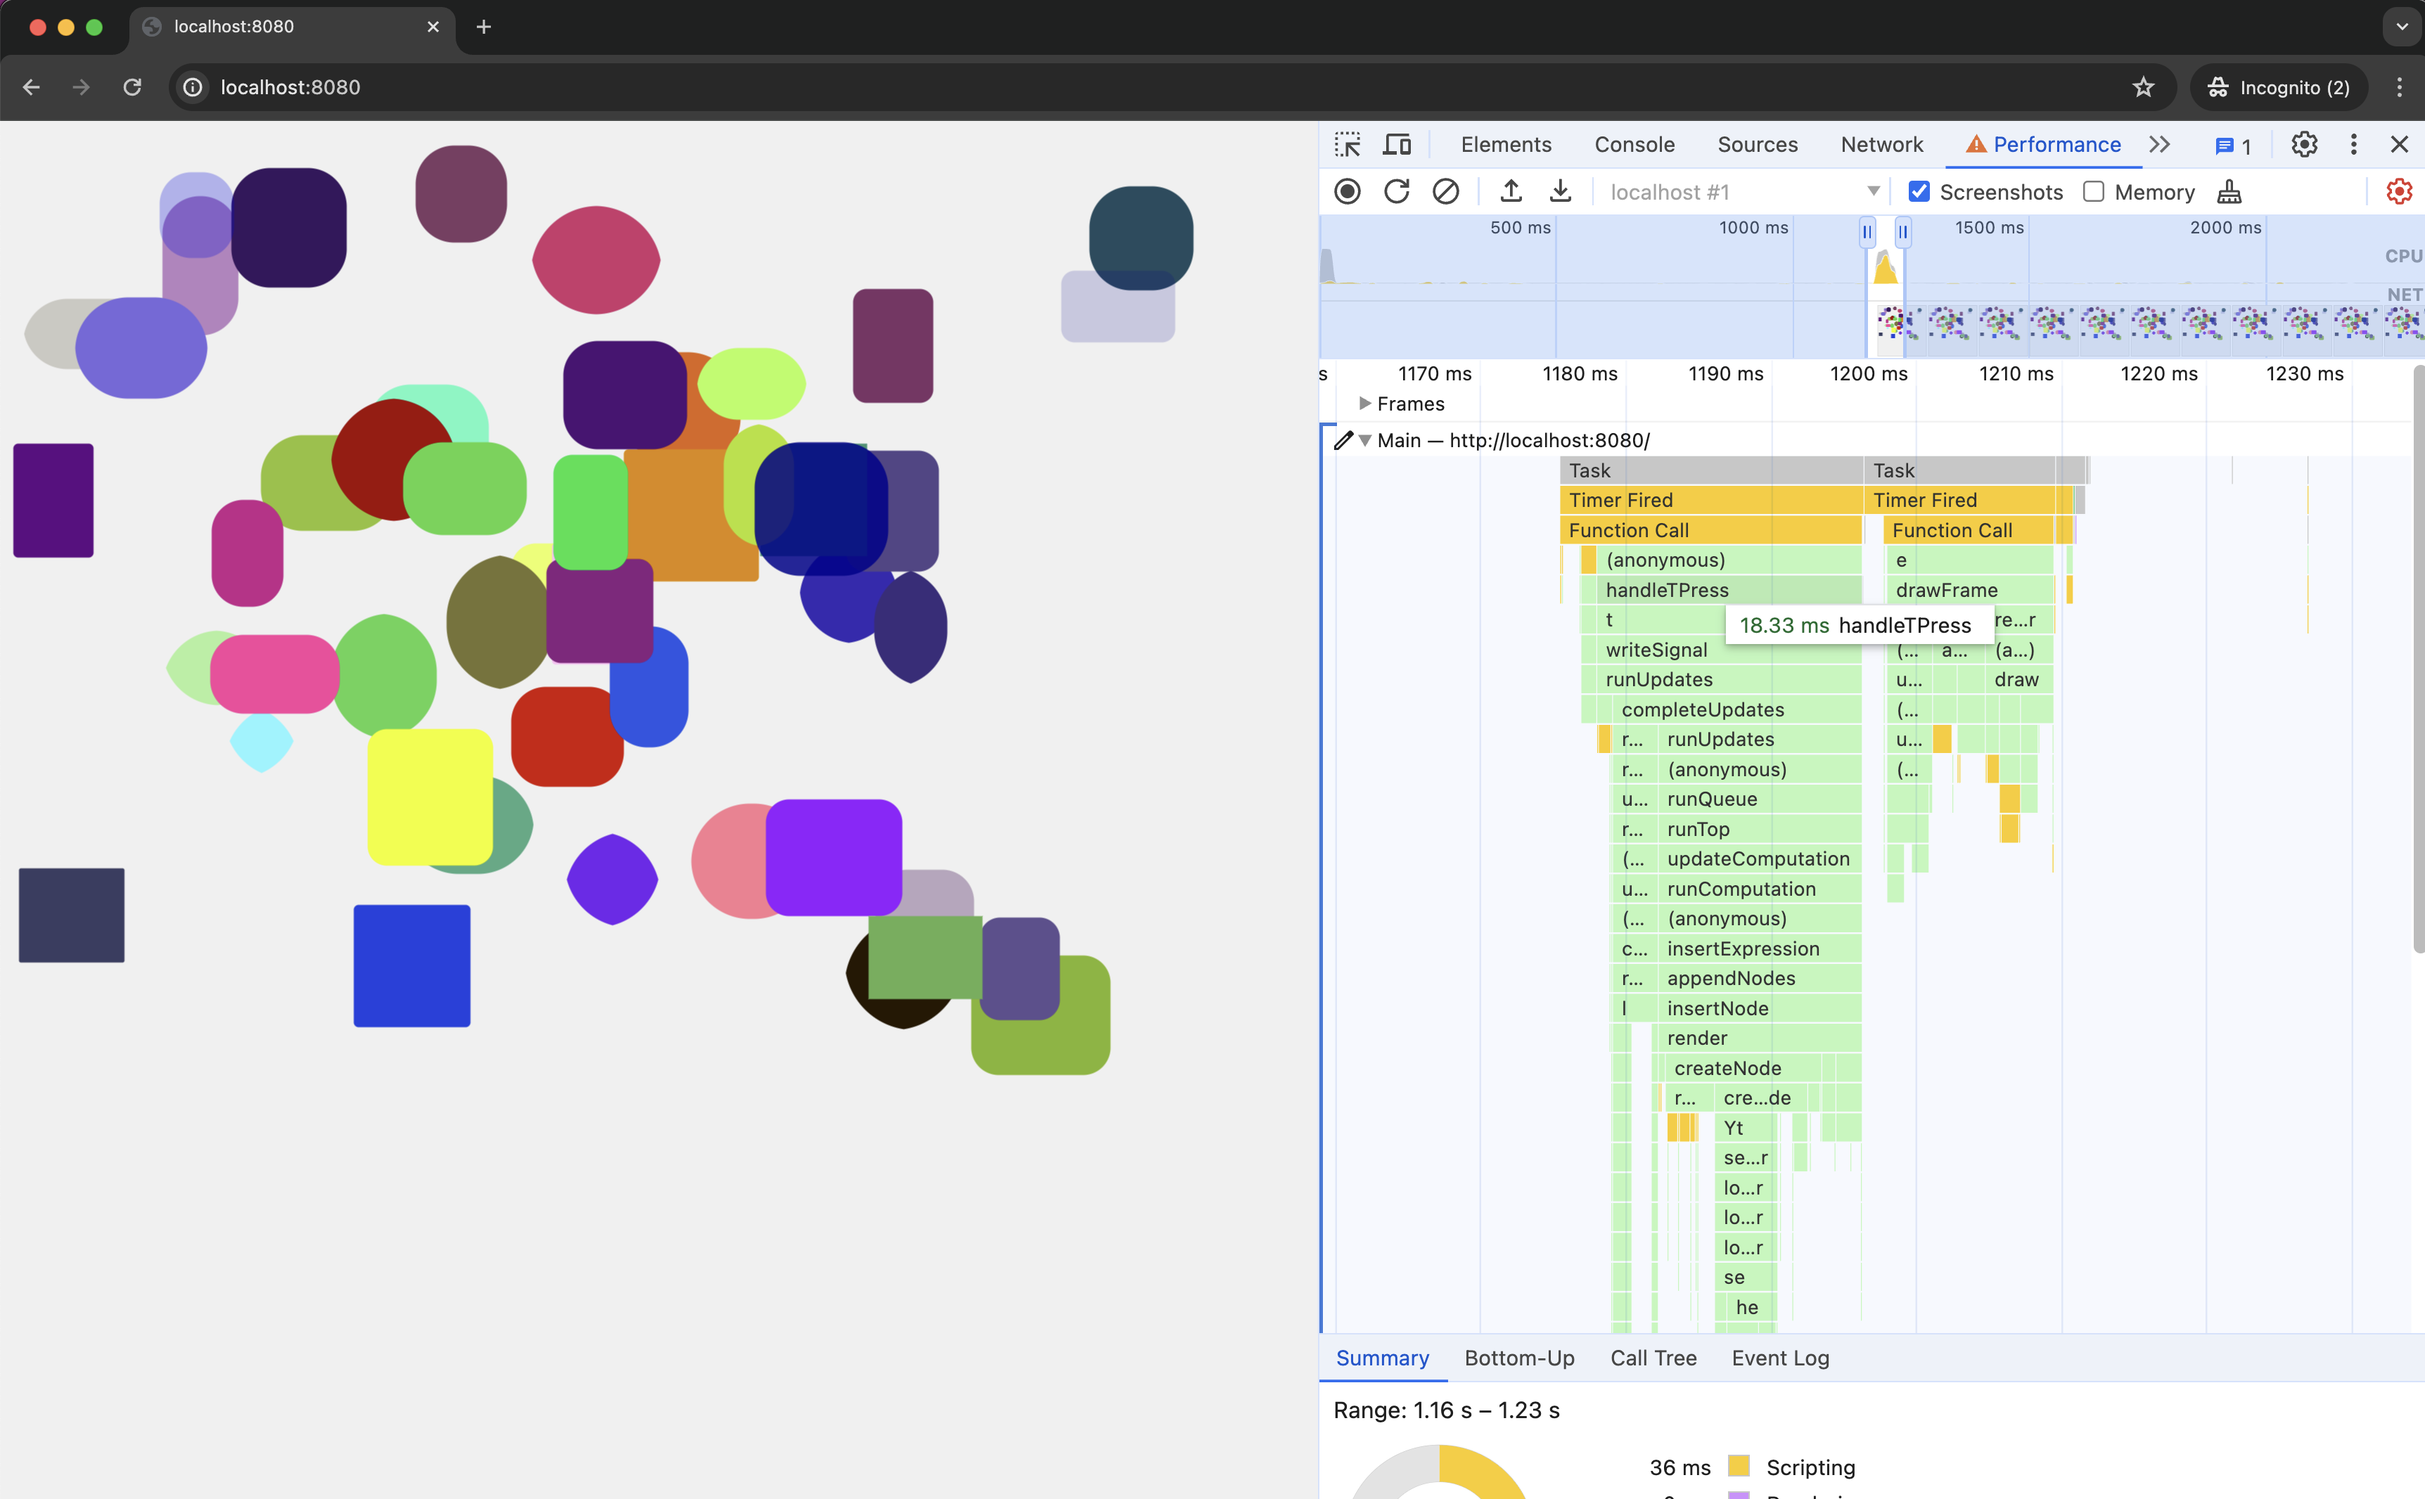
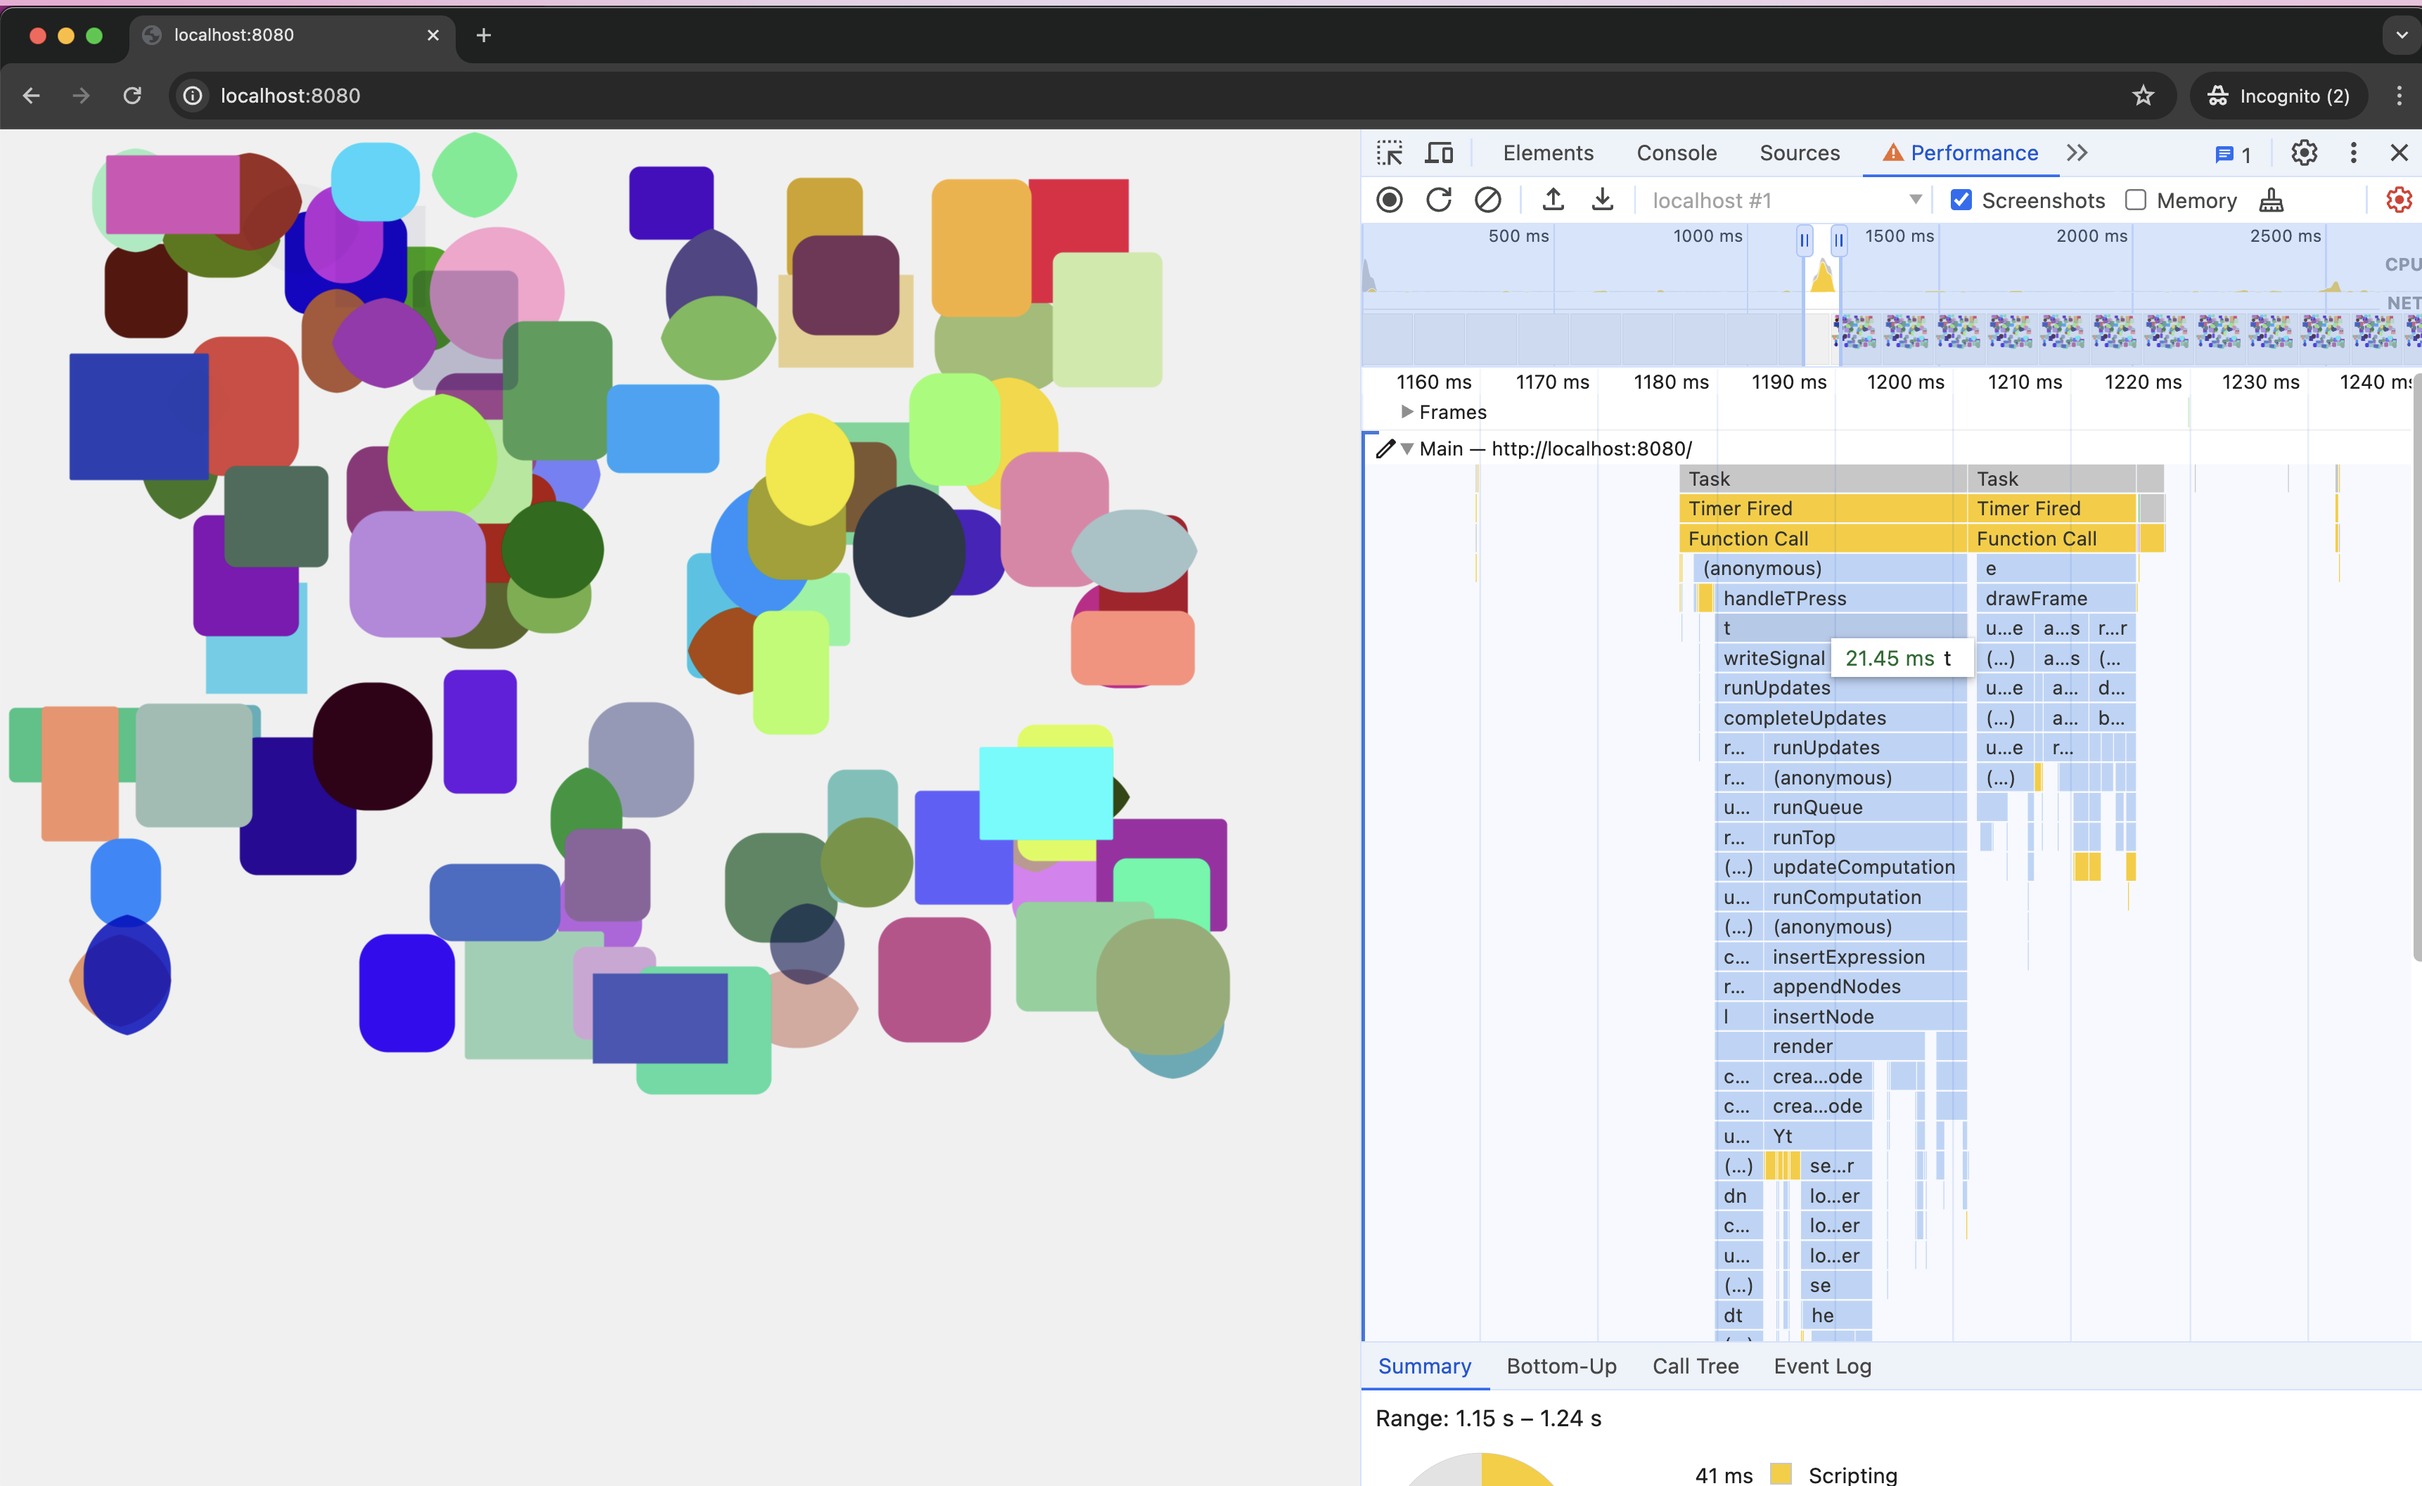
update to run 100 steps

diff --git a/src/pages/HelloWorld.jsx b/src/pages/HelloWorld.jsx
@@ -12,7 +12,7 @@ const HelloWorld = () => {
   const handleTPress = () => {
     const _blocks = [...blocks()];
 
-    for (let step = 0; step < 50; step++) {
+    for (let step = 0; step < 100; step++) {
       _blocks.push({
         width: random(50, 100),
         height: random(50, 100),
